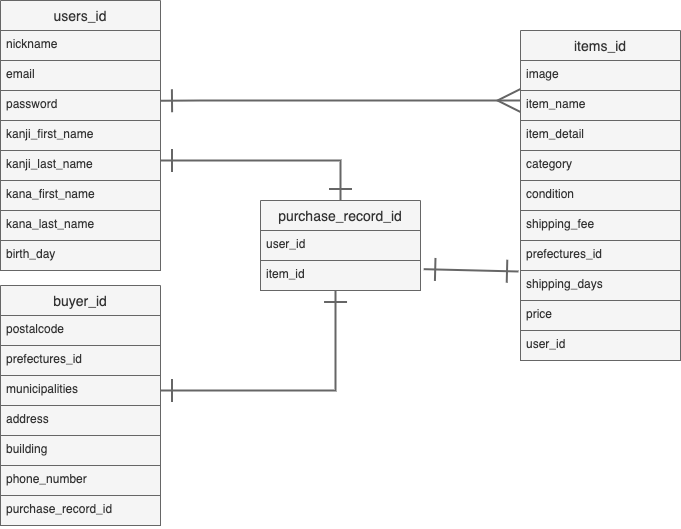
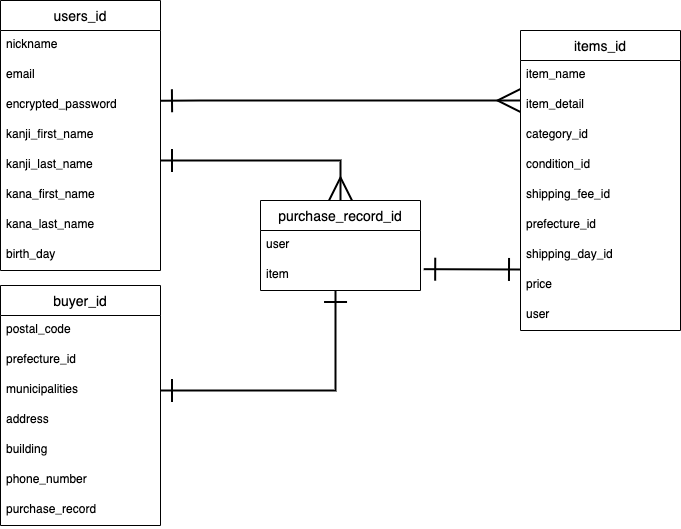
修正３

diff --git a/README.md b/README.md
@@ -25,8 +25,8 @@
 | category_id      | integer | null: false |
 | condition_id     | integer | null: false |
 | shipping_fee_id  | integer | null: false |
-| prefectures_id   | integer | null: false |
-| shipping_days_id | integer | null: false |
+| prefecture_id    | integer | null: false |
+| shipping_day_id  | integer | null: false |
 | price            | integer | null: false |
 | user          | references | null: false, foreign_key: true |
 
@@ -43,9 +43,9 @@
 | item  | references | null: false, foreign_key: true |
 
 ### Association
-- belongs_to :uer
+- belongs_to :user
 - belongs_to :item
-- belongs_to :buyer
+- has_one :buyer
 
 
 ## buyersテーブル
@@ -53,7 +53,7 @@
 | Column         | Type    | Options                   |
 | -------------- | ------- | ------------------------- |
 | postal_code    | string  | null: false |
-| prefectures_id | integer | null: false |
+| prefecture_id  | integer | null: false |
 | municipalities | string  | null: false |
 | address        | string  | null: false |
 | building       | string  |             |
@@ -61,4 +61,4 @@
 | purchase_record | references | null: false, foreign_key: true |
 
 ### Association
-- has_one :purchase_record
+- belongs_to :purchase_record
